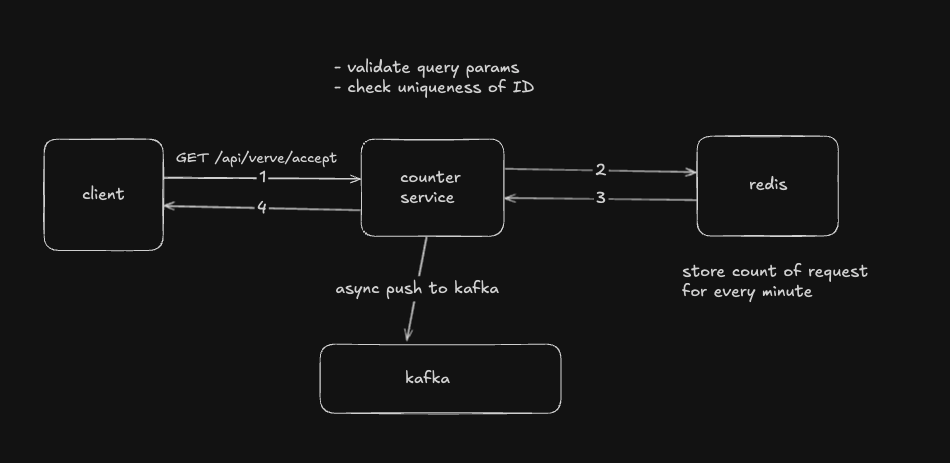
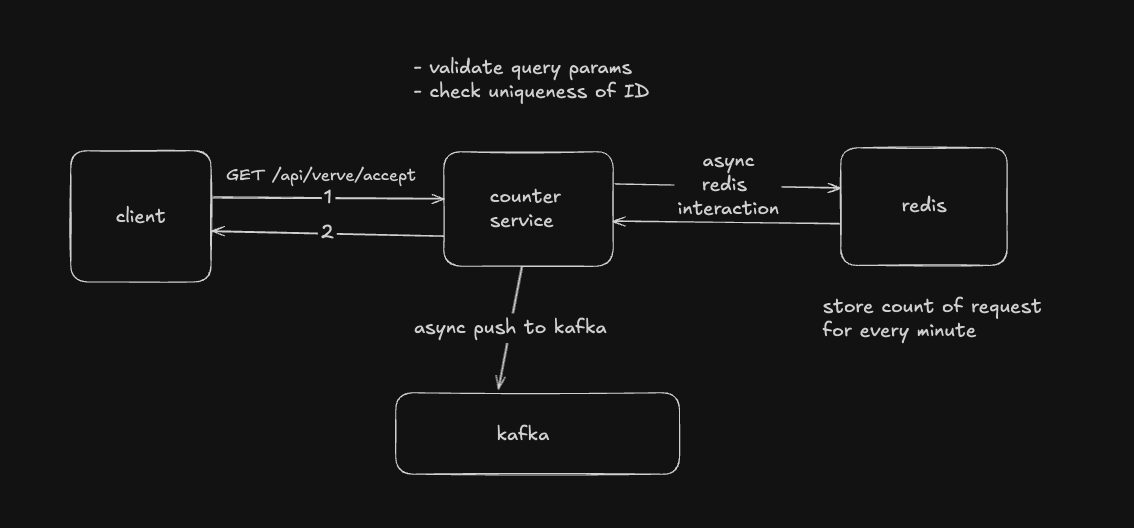
update readme

diff --git a/thought-process.md b/thought-process.md
@@ -15,7 +15,7 @@
     - Added Redis as a distributed cache for ensuring uniqueness of ID in every minute window.
     - Using redis to store the count of requests in every minute window.
     - Using a Ticker to regularly fetch the count and push on to kafka.
-    - Using go routines for handling redis interactions. Since redis is single threaded, even if we have multiple requests at the same time with same ID, the second one will get discarded. 
+    - Using go routines for handling redis interactions since traffic upto 10k rps is expected. Since redis is single threaded, even if we have multiple requests at the same time with same ID, the second one will get discarded. 
 
     ![alt text](./images/image.png)
 
